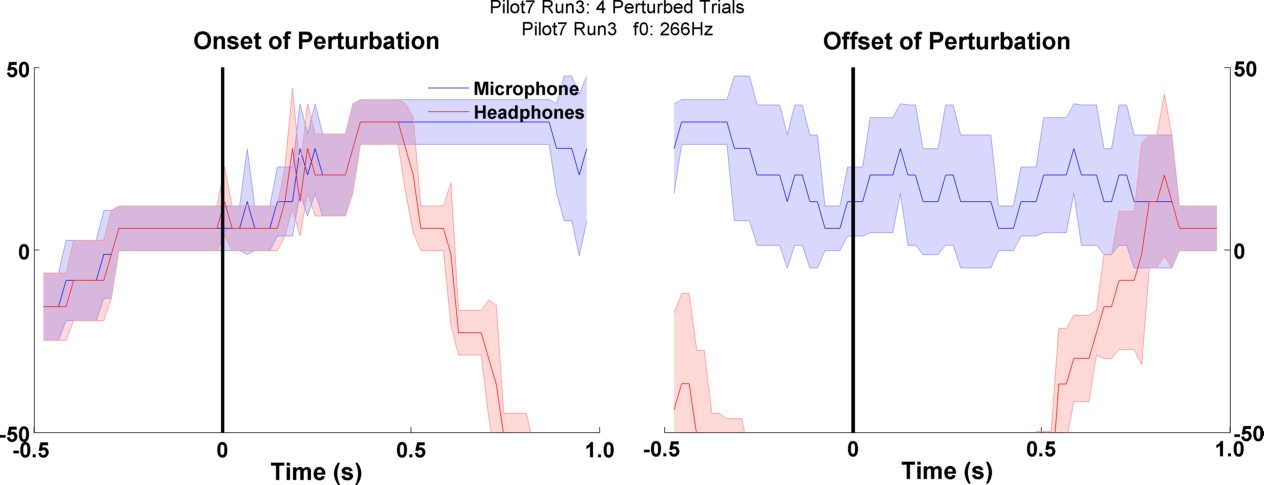
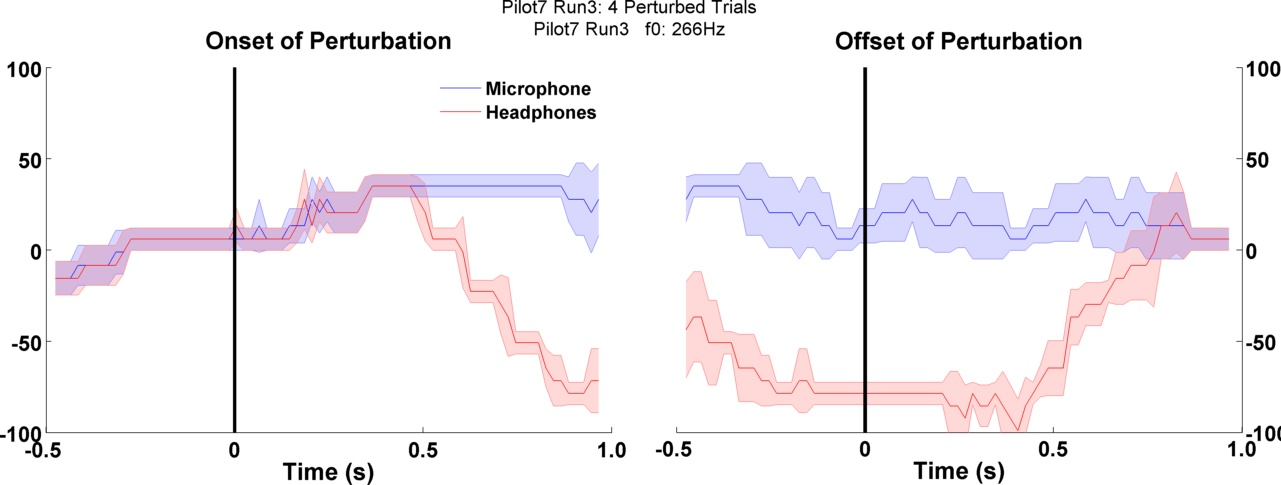
new plots, timing will be figured out tomorrow

diff --git a/Analysis/dfAnalysisAudapter.m b/Analysis/dfAnalysisAudapter.m
@@ -99,7 +99,7 @@ end
 [res.meanTrialf0_Sp, res.meanTrialForce_Sp, res.trialCount] = sortTrials(res.allTrialf0_Sp, res.allTrialForce, res.runTrialOrder);
 res.meanTrialf0b = round(mean(res.allTrialf0b,1));
 
-res.f0Limits         = [0 auAn.totEveLen -50 50];
+res.f0Limits         = [0 auAn.totEveLen -100 100];
 res.InflaRespLimits  = [0 0.5 -200 0];
 res.ForceLimits      = [0 auAn.totEveLen 1 3.5];
 res.PressureLimits   = [0 auAn.totEveLen 20 30];

diff --git a/Analysis/OfflineAudapterPlay.m b/Analysis/OfflineAudapterPlay.m
@@ -155,7 +155,7 @@ end
 
 [auAn, res] = dfAnalysisAudapter(OA.expParam, OA.rawData, OA.DAQin);
 
-drawInterTrialAudResp(res.time, res.meanTrialf0_St, res.meanTrialf0_Sp, res.f0Limits, res.trialCount, res.meanTrialf0b, auAn.curExp, auAn.curExp, dirs.SavResultsDir)
+drawInterTrialAudResp(res.time, res.meanTrialf0_St, res.meanTrialf0_Sp, res.f0Limits, res.trialCount, res.meanTrialf0b, auAn.curExp, 'offline3', dirs.SavResultsDir)
 
 end
 
